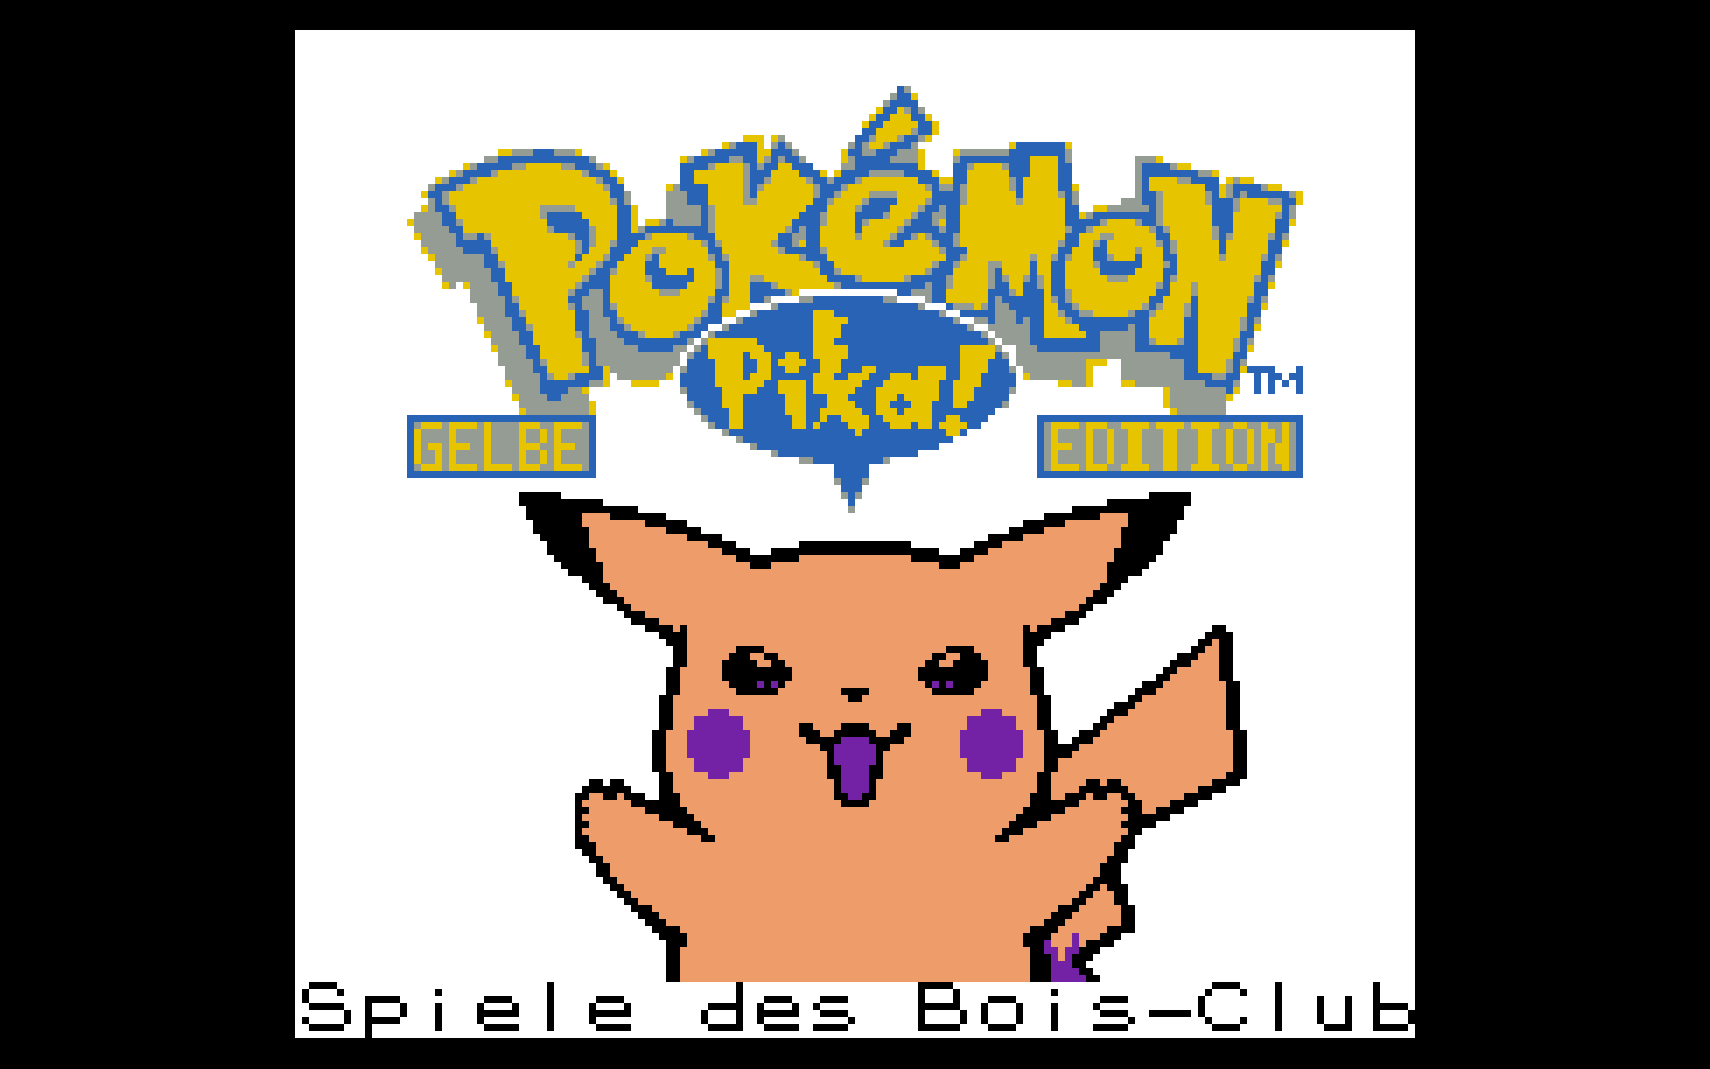
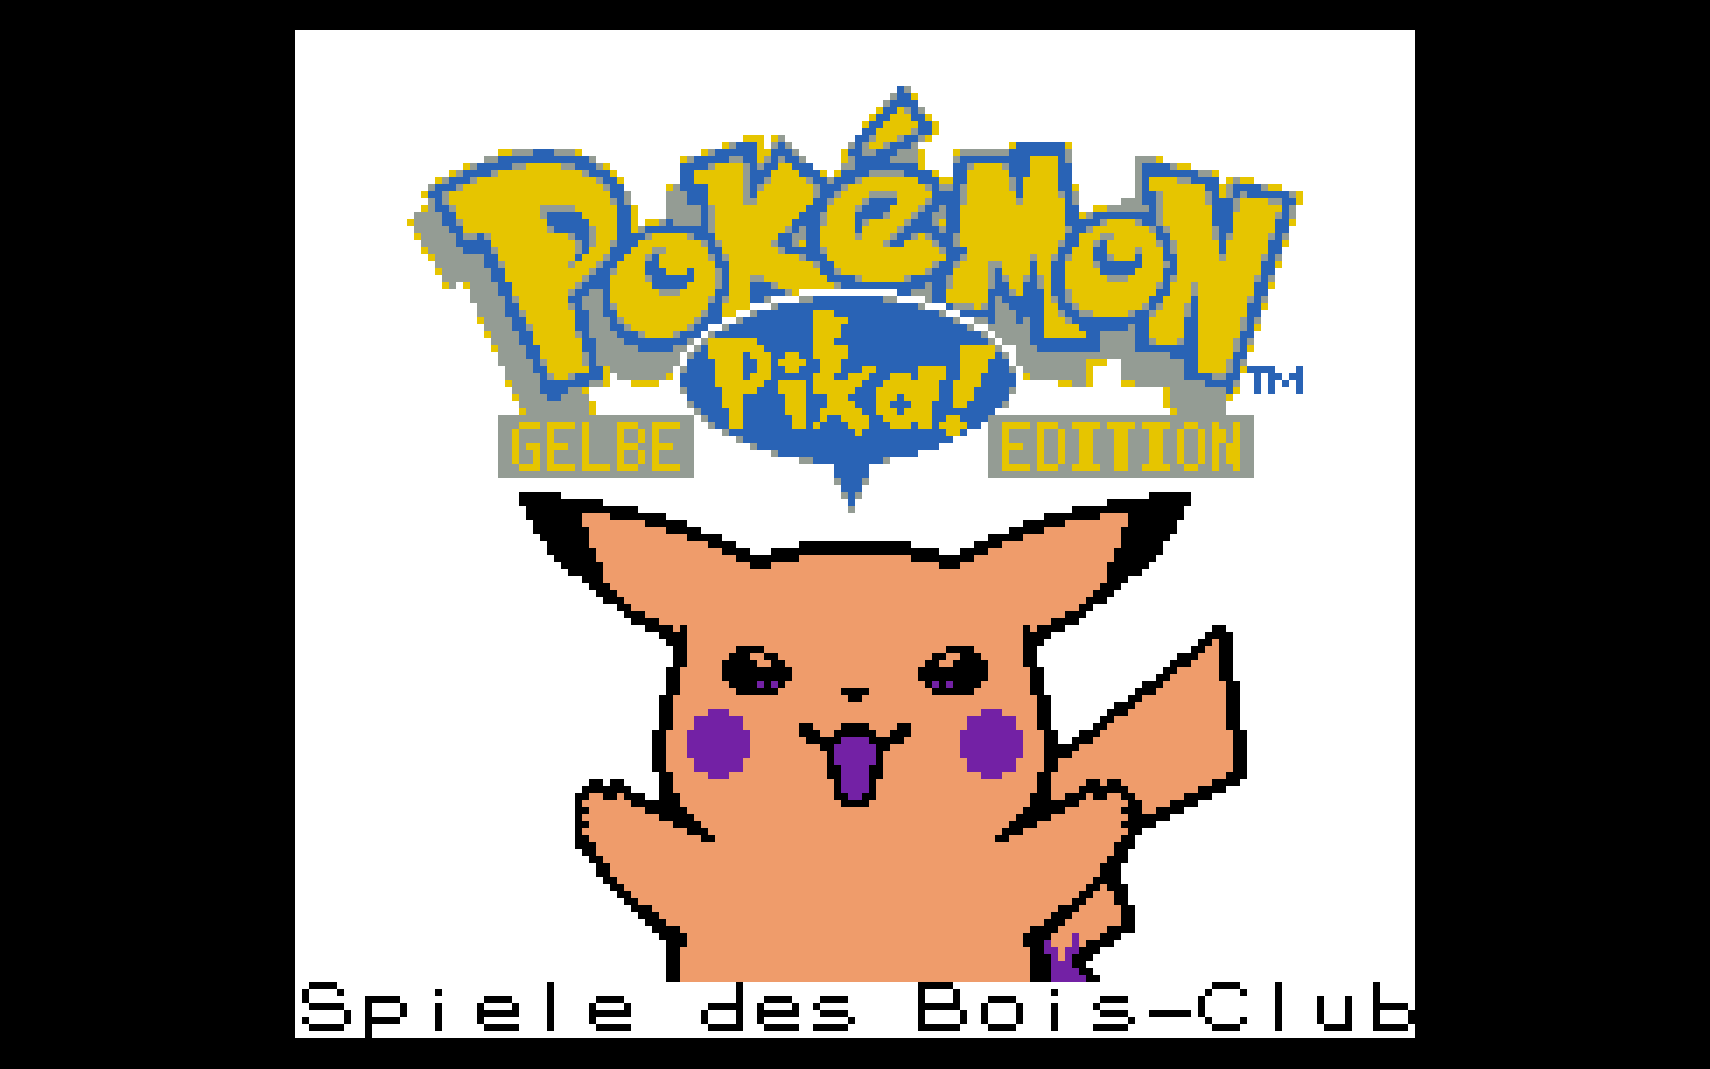
Release 1.0.3

Changed region(s): [[0.5579, 0.3704, 0.7749, 0.463], [0.217, 0.3704, 0.4029, 0.463]]

diff --git a/README.md b/README.md
@@ -1,7 +1,7 @@
 # Deutsch für Pokémon Gelb
 
 Diese Mod macht die kanonische US-ROM in Gen1Recomp auf Deutsch spielbar.
-Aktuelle Version: **1.0.2**.
+Aktuelle Version: **1.0.3**.
 
 Die Inhalte wurden nicht maschinell übersetzt: Dialoge, Pokédex-Texte, Namen,
 Schriftzeichen und die Titelgrafik stammen aus der deutschen ROM von
@@ -32,7 +32,7 @@ im Game-Boy-Original nicht existieren, wurden separat übersetzt.
 
 ## Installation
 
-1. Unter **Releases** die Datei `deutsch-gelb-1.0.2.zip` herunterladen.
+1. Unter **Releases** die Datei `deutsch-gelb-1.0.3.zip` herunterladen.
 2. In Gen1Recomp **MODS > Import mod .zip** öffnen.
 3. Das Archiv auswählen, die Mod aktivieren und das Spiel neu starten.
 

diff --git a/CHANGELOG.md b/CHANGELOG.md
@@ -1,5 +1,14 @@
 # Changelog
 
+## 1.0.3
+
+### Korrigiert
+
+- Der durch die SGB-Titelpalette blau dargestellte Rahmen um `GELBE` und
+  `EDITION` wurde entfernt.
+- Die Editionszeile beginnt nun unter dem `P` des Pokémon-Logos und endet
+  unter dessen letztem `N`, entsprechend der ursprünglichen Einrückung.
+
 ## 1.0.2
 
 ### Korrigiert
